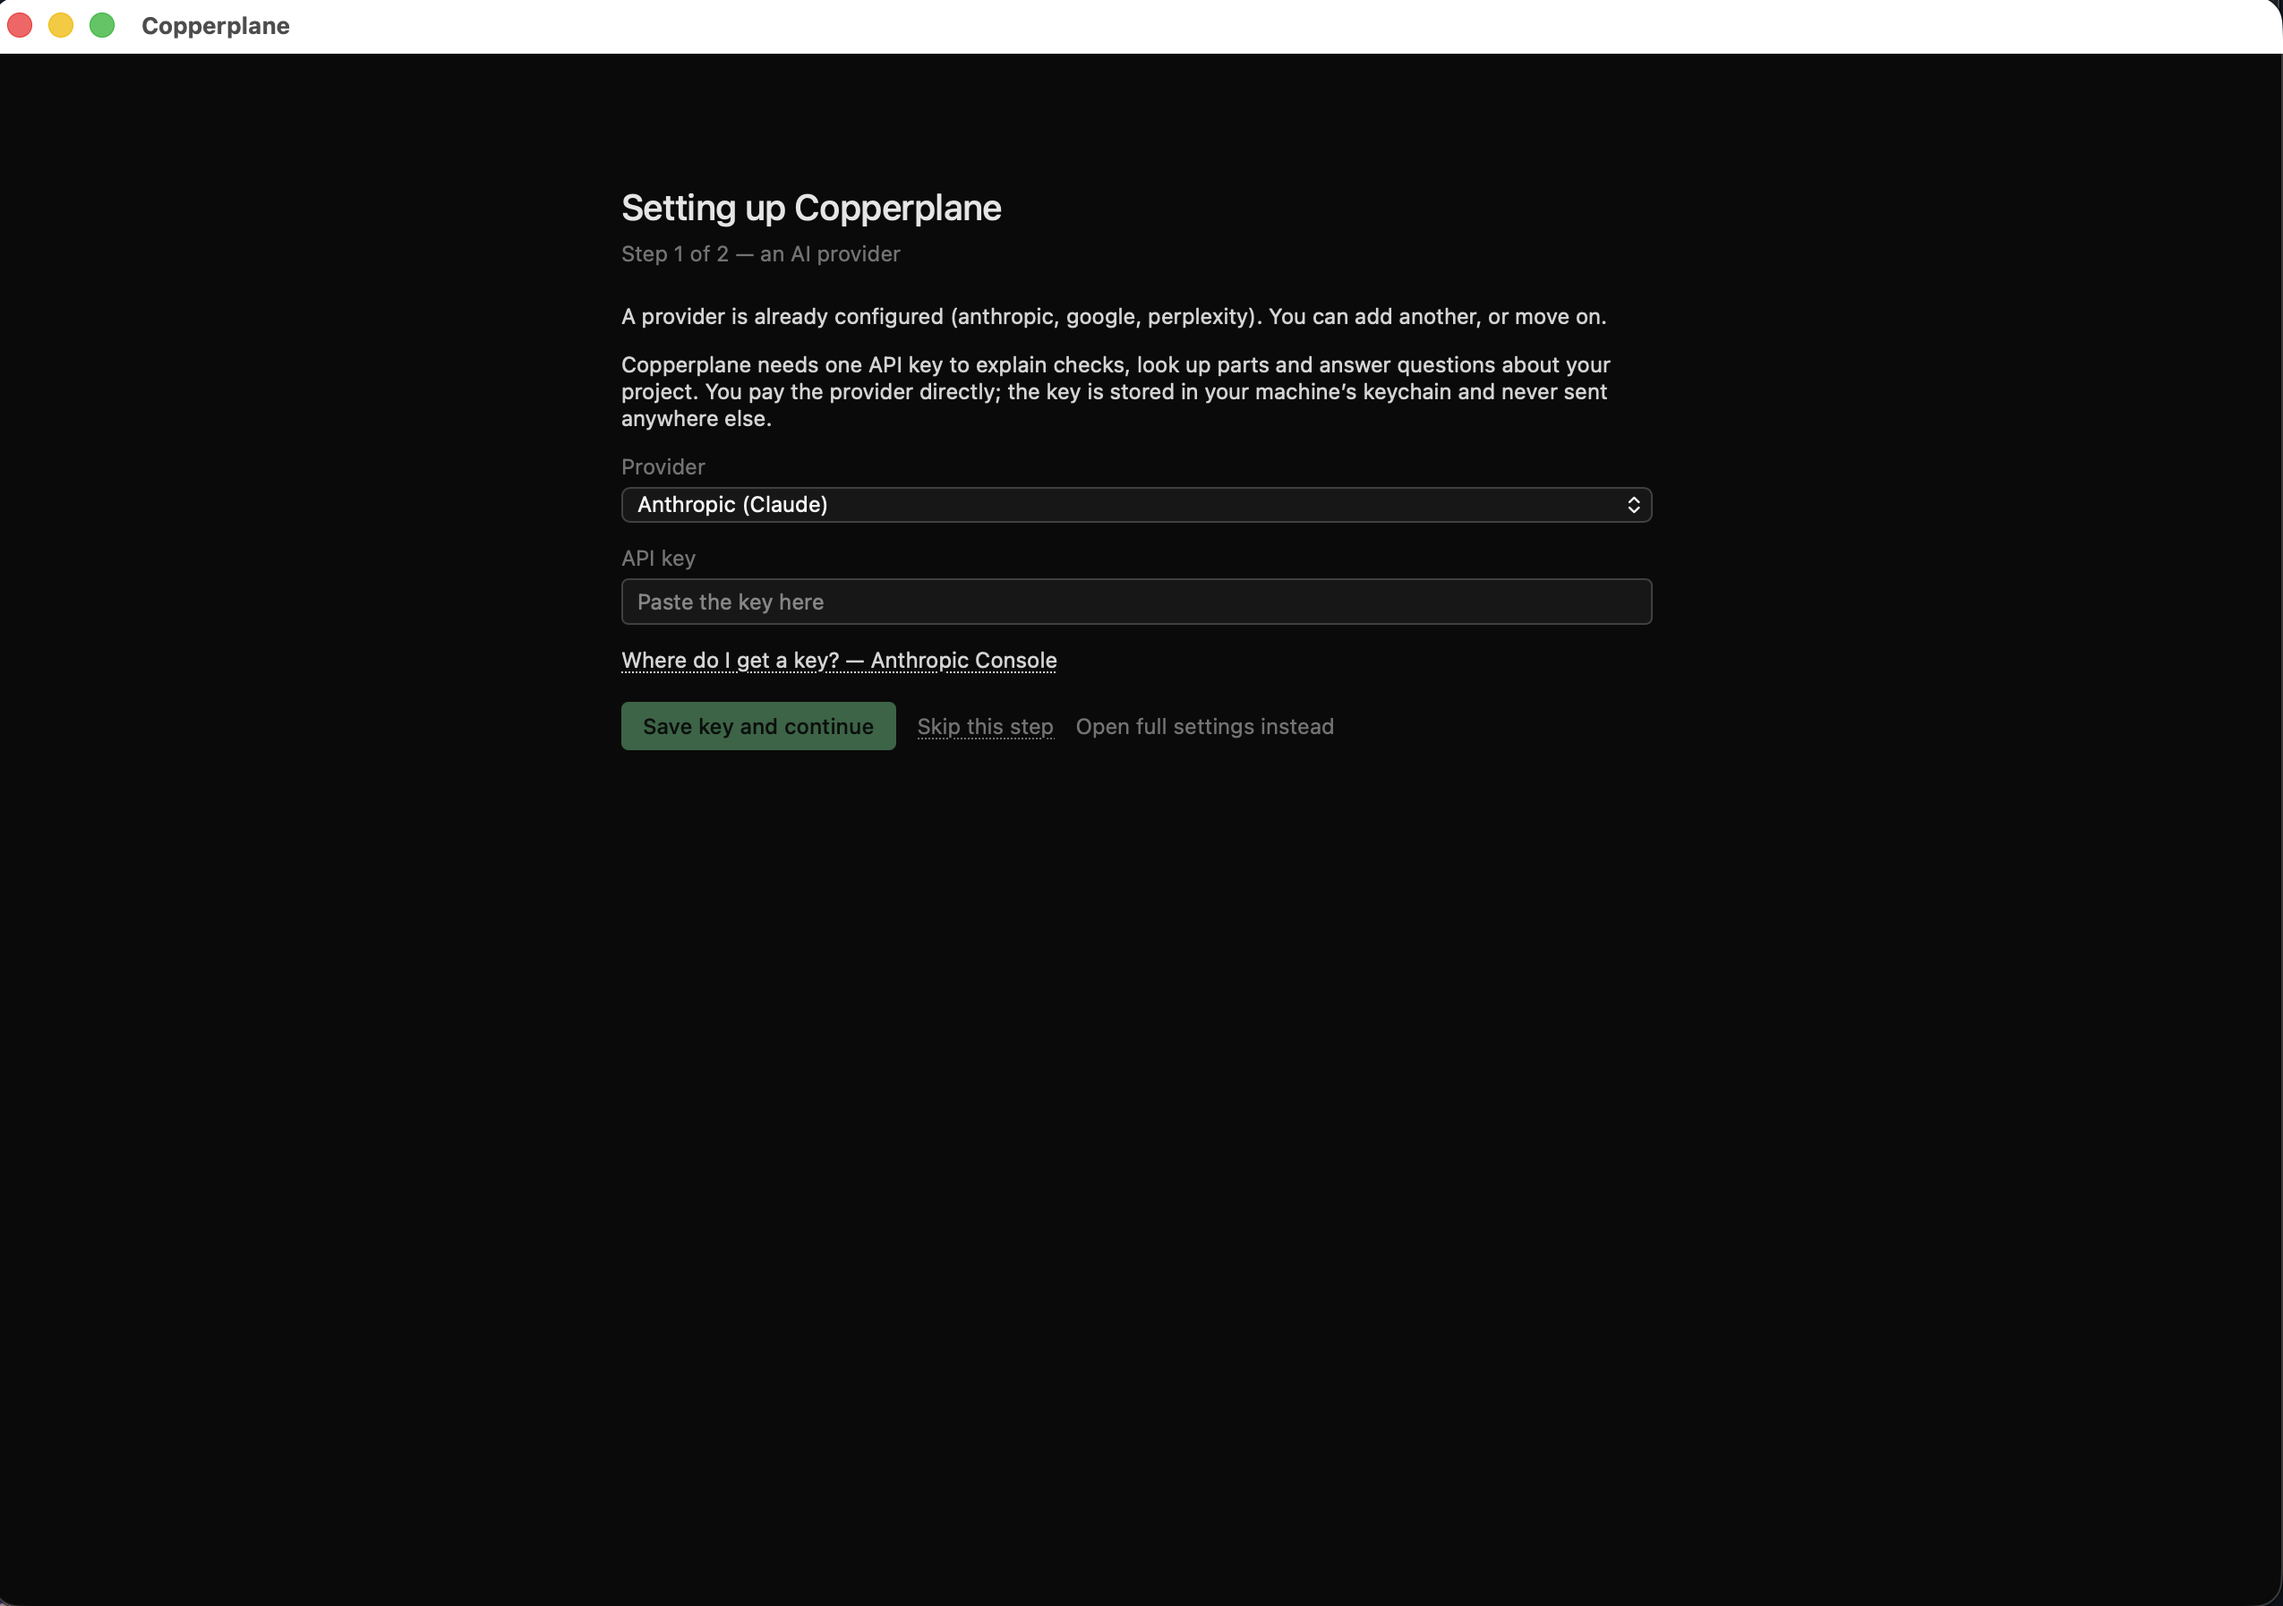
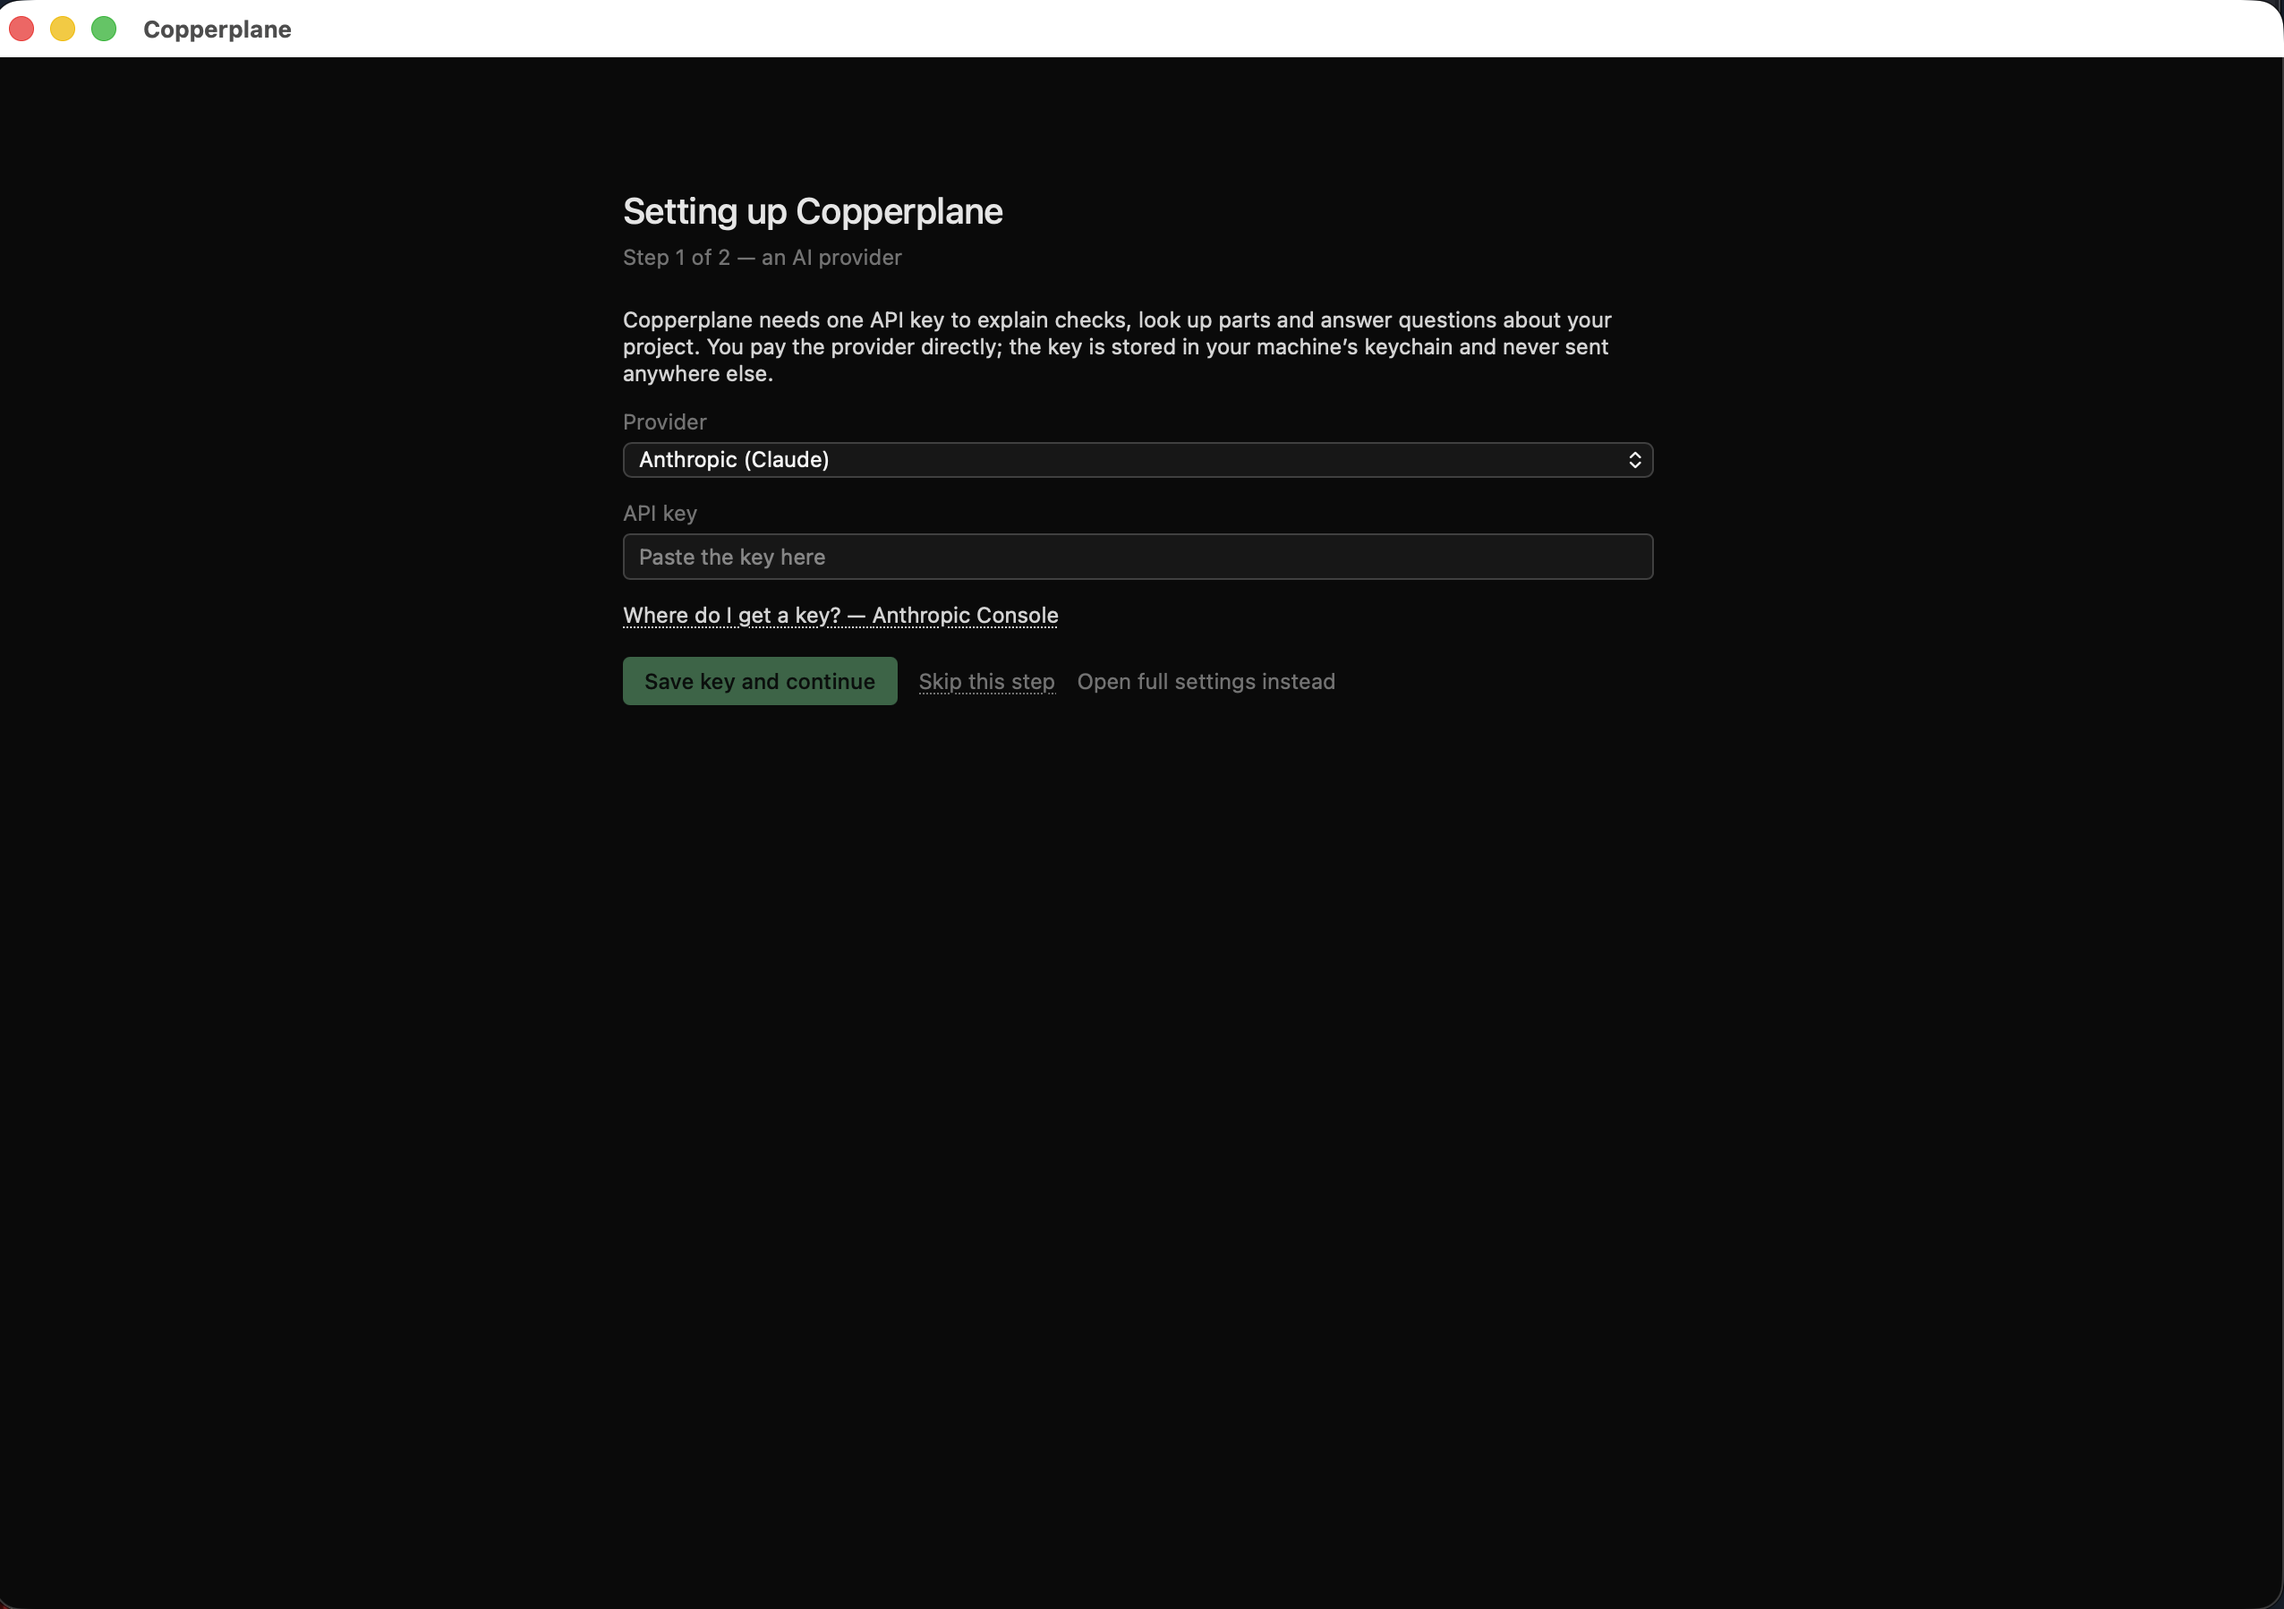
docs(CTX-408.4): a genuinely first-run provider step
The previous guided-provider.png read "A provider is already configured
(anthropic, google, perplexity)" -- the maintainer's own machine, not a first
run, and a state nobody following the page would ever see. Reshot after
resetting onboarding: the intro, the provider dropdown, an empty key field, the
console link, and the three ways forward.

Nothing exposed either way; the key field was empty before too. What changes is
that the picture now matches the sentence beside it.

diff --git a/docs/site/SCREENSHOTS.md b/docs/site/SCREENSHOTS.md
@@ -91,10 +91,6 @@ ranked candidates, is kept instead.
 
 ## Known and deliberate
 
-`guided-provider.png` reads "A provider is already configured (anthropic, google, perplexity)",
-which a genuinely fresh install would never show. The key field is empty and nothing is exposed.
-Reshoot only if the wording bothers you; the screen itself is the one a new user sees.
-
 The enclosure 3D preview does not draw the Arduino or the switch. Both *reference* a KiCad 3D
 model and neither `.step` file is in KiCad's macOS package, so there is nothing to draw. The
 tutorial and the enclosure guide both say so rather than leaving a reader to wonder -- and it is
